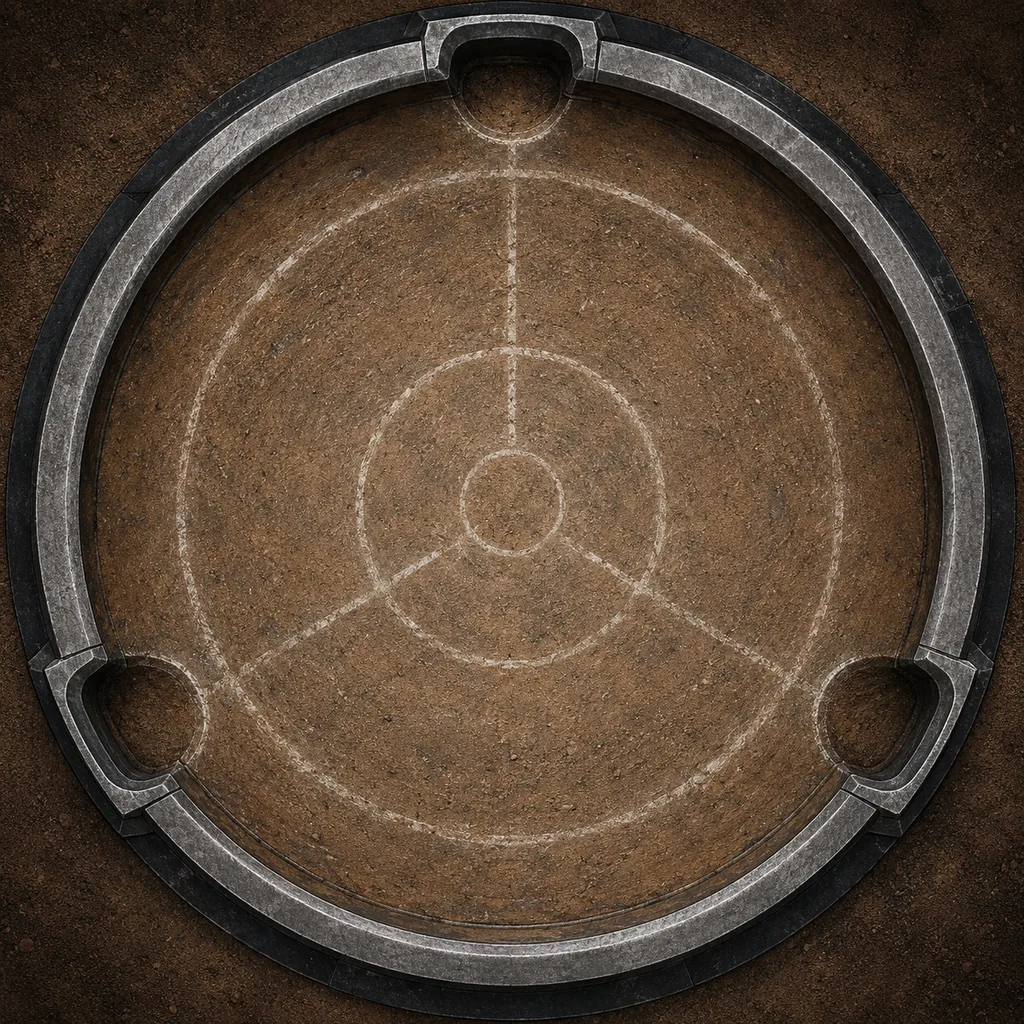
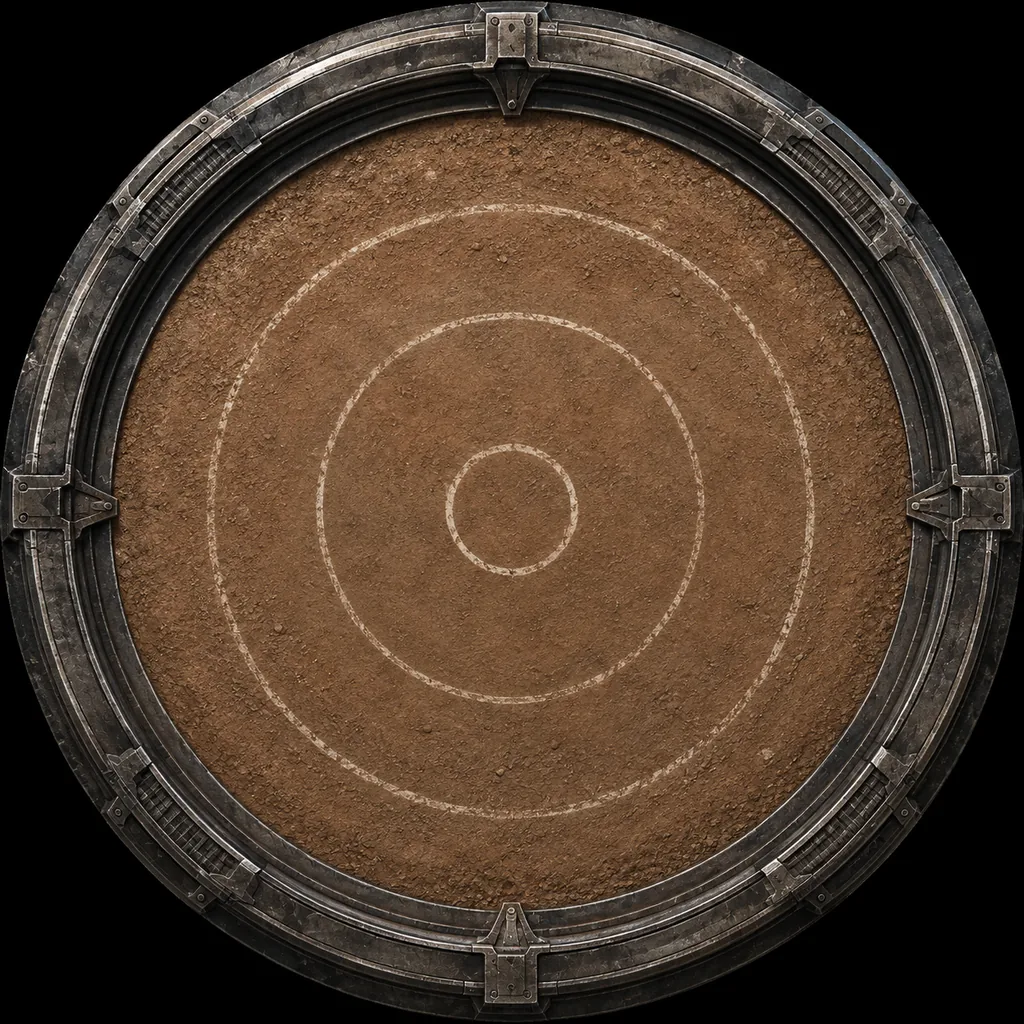
Ripcord: corrected Taya and Long Range floors, glyph and FX banks cut
Taya's old paint showed three pockets the sim does not have; the new
pocket-free dirt-and-rail dish replaces it (rim recalibrated 0.455 by
compositing candidate circles and looking, verified in the stadium shot).
Long Range's old take had four rail gates and no bands; the corrected
five-band take is wired after tools/detext_range.py polar-clones its
baked ruler text out and keys its magenta ground to alpha (rim 0.445).
The code's tujlub band rings skip when the paint is up, the uri law:
scoring is the pinned targets, so the paint's bands may be the visual.

Banked ready-to-wire from the same drop: 6 slot glyphs, 9 trigger glyphs
(one per trigger name), 8 physics FX ingredients (de-magenta'd: soft
glows keyed off a magenta ground keep an opaque cast the defringe band
cannot reach; min(R,B)-G excess subtracted instead). artsupport gains a
grid cut for sheets of disconnected pieces and retires the two floor
mappings that would regress the corrected files.

Claude-Session: https://claude.ai/code/session_01VaDwzVpmzUcjJm5HSHJmQ4

diff --git a/satellites/ripcord/index.html b/satellites/ripcord/index.html
@@ -4611,8 +4611,16 @@ function artHas(slot,id){ return !!(ART.has[slot]&&ART.has[slot][id]); }
 var ARENA_ART={
   pangkah:{f:'pangkah',rim:0.435,rot:Math.PI/2},
   uri:    {f:'uri',    rim:0.478,rot:0},
-  taya:   {f:'taya',   rim:0.450,rot:Math.PI/2},
-  tujlub: {f:'range',  rim:0.474,rot:0}
+  // Aug 31 corrected floor: the old paint showed three pockets Taya's sim
+  // does not have. The new dish is pocket-free (rot moot), rim calibrated
+  // by compositing candidate circles in PIL and LOOKING, then verified in
+  // the game's own stadium shot: 0.455 = the painted rail's centreline.
+  taya:   {f:'taya',   rim:0.455,rot:0},
+  // Aug 31 corrected floor: the old take had four rail gates and no bands;
+  // this one is five flush distance bands, no gates, baked "50m" ruler text
+  // polar-cloned out (the sim's marks draw over it). rim recalibrated for
+  // the new paint's greek-key rail band.
+  tujlub: {f:'range',  rim:0.445,rot:0}
 };
 var ARENA_IMG={};
 function arenaArt(m){
@@ -6740,8 +6748,11 @@ function drawStadium(cx,cy,r){
       ctx.beginPath();
       ctx.moveTo(cx+Math.cos(a)*r*0.06,cy+Math.sin(a)*r*0.06);
       ctx.lineTo(cx+Math.cos(a)*r*0.20,cy+Math.sin(a)*r*0.20);ctx.stroke();}
-  }else if(mode==='tujlub'){
-    // a range, so the ground is marked in distance bands rather than a lip
+  }else if(mode==='tujlub'&&!img){
+    // a range, so the ground is marked in distance bands rather than a lip.
+    // The painted floor carries five bands of its own; scoring is the pinned
+    // targets, not the bands, so the paint's bands may be the visual and
+    // doubling them with these (the uri post-ring law) reads as a mistake.
     ctx.strokeStyle='rgba(237,230,216,.13)';ctx.lineWidth=1.5;
     for(i=1;i<=5;i++){
       ctx.beginPath();ctx.arc(cx,cy,r*(0.16+i*0.155),0,Math.PI*2);ctx.stroke();

diff --git a/satellites/ripcord/src/play-shell.html b/satellites/ripcord/src/play-shell.html
@@ -1010,8 +1010,16 @@ function artHas(slot,id){ return !!(ART.has[slot]&&ART.has[slot][id]); }
 var ARENA_ART={
   pangkah:{f:'pangkah',rim:0.435,rot:Math.PI/2},
   uri:    {f:'uri',    rim:0.478,rot:0},
-  taya:   {f:'taya',   rim:0.450,rot:Math.PI/2},
-  tujlub: {f:'range',  rim:0.474,rot:0}
+  // Aug 31 corrected floor: the old paint showed three pockets Taya's sim
+  // does not have. The new dish is pocket-free (rot moot), rim calibrated
+  // by compositing candidate circles in PIL and LOOKING, then verified in
+  // the game's own stadium shot: 0.455 = the painted rail's centreline.
+  taya:   {f:'taya',   rim:0.455,rot:0},
+  // Aug 31 corrected floor: the old take had four rail gates and no bands;
+  // this one is five flush distance bands, no gates, baked "50m" ruler text
+  // polar-cloned out (the sim's marks draw over it). rim recalibrated for
+  // the new paint's greek-key rail band.
+  tujlub: {f:'range',  rim:0.445,rot:0}
 };
 var ARENA_IMG={};
 function arenaArt(m){
@@ -3139,8 +3147,11 @@ function drawStadium(cx,cy,r){
       ctx.beginPath();
       ctx.moveTo(cx+Math.cos(a)*r*0.06,cy+Math.sin(a)*r*0.06);
       ctx.lineTo(cx+Math.cos(a)*r*0.20,cy+Math.sin(a)*r*0.20);ctx.stroke();}
-  }else if(mode==='tujlub'){
-    // a range, so the ground is marked in distance bands rather than a lip
+  }else if(mode==='tujlub'&&!img){
+    // a range, so the ground is marked in distance bands rather than a lip.
+    // The painted floor carries five bands of its own; scoring is the pinned
+    // targets, not the bands, so the paint's bands may be the visual and
+    // doubling them with these (the uri post-ring law) reads as a mistake.
     ctx.strokeStyle='rgba(237,230,216,.13)';ctx.lineWidth=1.5;
     for(i=1;i<=5;i++){
       ctx.beginPath();ctx.arc(cx,cy,r*(0.16+i*0.155),0,Math.PI*2);ctx.stroke();

diff --git a/satellites/ripcord/tools/artsupport.py b/satellites/ripcord/tools/artsupport.py
@@ -35,8 +35,15 @@ SHEETS = {
     # the four gameplay floors
     'file_00000000131081f5': ('arena', 'pangkah'),
     'file_0000000045b081f5': ('arena', 'uri'),
-    'file_00000000e33c81f5': ('arena', 'taya'),      # richer of the two takes
-    'file_000000009e3c81f5': ('arena', 'range'),
+    # taya remapped Aug 31: the old take (e33c) painted three pockets the
+    # sim does not have; the corrected pocket-free dish rides the same
+    # dirt-and-rail family. rim recalibrated 0.450 -> 0.455 in play-shell.
+    'file_00000000ca7c81f5': ('arena', 'taya'),
+    # range REMOVED from the auto-cut Aug 31: the old take (9e3c) painted
+    # four rail gates and no bands. assets/arenas/range.webp is now HAND
+    # DERIVED (tools/detext_range.py polar-clones the baked ruler text out
+    # of the corrected five-band take, then keys its magenta ground to
+    # alpha) — re-adding a mapping here would silently regress it.
     # decal sheet B, exactly as specified
     'file_00000000a46c81f5': ('cut', [('decal','moth'),('decal','flame'),('decal','crane'),
                                       ('decal','chalk'),('decal','knot')]),
@@ -57,19 +64,30 @@ SHEETS = {
                                       ('emblem','tower'),('emblem','owl2'),('emblem','sunface')]),
     'file_00000000cd9c81f5': ('cut', [('emblem','moth2'),('emblem','flame2'),('emblem','crane2'),
                                       ('emblem','chalkstick'),('emblem','knot2')]),
-    # Decal Sheet A's missing four, from the Aug 31 "More assets" drop: the
-    # claw scratch IS stripe (a tiger-stripe rake), per the recovery handoff's
-    # own ledger ("stripe, koi, tiger, and circuit were later generated
-    # together on magenta"). Row-major: stripe, koi / tiger, circuit.
-    # 'quad' not 'cut': the claw is FOUR disconnected rake marks, so the
-    # connected-component finder shatters it (7 parts found for 4 assets).
-    # The sheet is a clean 2x2 grid, so each quadrant's own alpha bbox is
-    # the honest cut.
+    # The real UI sheets from the Aug 31 drop, ALL on clean magenta with no
+    # text: Sheet 11 slot glyphs (mechanical, gunmetal), Sheet 12 trigger
+    # glyphs (carved stone + gold, one per trigger name, row-major per the
+    # recovery handoff), Sheet 14 physics FX ingredients. Banked as singles
+    # ready to wire; nothing consumes them yet.
+    'file_00000000234081fd': ('grid', [(3,2),[('glyph','slot-core'),('glyph','slot-blade'),('glyph','slot-assist'),
+                                              ('glyph','slot-ratchet'),('glyph','slot-bit'),('glyph','slot-weight')]]),
+    'file_00000000d1c881f5': ('grid', [(3,3),[('glyph','trig-charged'),('glyph','trig-lowspin'),('glyph','trig-thirdhit'),
+                                              ('glyph','trig-onridge'),('glyph','trig-behind'),('glyph','trig-firstblood'),
+                                              ('glyph','trig-cornered'),('glyph','trig-mirror'),('glyph','trig-late')]]),
+    'file_000000002cec81f5': ('grid', [(4,2),[('fx','spinring'),('fx','wobble'),('fx','spark-low'),('fx','spark-med'),
+                                              ('fx','spark-high'),('fx','railstreak'),('fx','burst'),('fx','dust')]]),
+    # Decal Sheet A's missing four ("stripe, koi, tiger, and circuit were
+    # later generated together on magenta" per the recovery handoff; the claw
+    # scratch IS stripe, a tiger-stripe rake). 'quad' not 'cut': the claw is
+    # FOUR disconnected rake marks, so the component finder shatters it
+    # (7 parts found for 4 assets); a 2x2 grid cuts honestly by quadrant.
     'file_00000000fd5081f5': ('quad', [('decal','stripe'),('decal','koi'),
                                        ('decal','tiger'),('decal','circuit')]),
 }
-SIZES = {'decal': 256, 'emblem': 320}
-DEST = {'decal': DECALS_D, 'emblem': EMBLEMS_D}
+GLYPHS_D = os.path.join(ROOT, 'assets', 'glyphs')
+FX_D = os.path.join(ROOT, 'assets', 'fx')
+SIZES = {'decal': 256, 'emblem': 320, 'glyph': 256, 'fx': 320}
+DEST = {'decal': DECALS_D, 'emblem': EMBLEMS_D, 'glyph': GLYPHS_D, 'fx': FX_D}
 
 def square(im, side):
     im = im.copy()
@@ -79,7 +97,7 @@ def square(im, side):
     return c
 
 def main(indir):
-    for d in (DECALS_D, EMBLEMS_D, ARENAS_D):
+    for d in (DECALS_D, EMBLEMS_D, ARENAS_D, GLYPHS_D, FX_D):
         os.makedirs(d, exist_ok=True)
     files = {f: os.path.join(indir, f) for f in os.listdir(indir) if f.endswith('.png')}
     done, failed = 0, False
@@ -96,20 +114,28 @@ def main(indir):
             continue
         keyed, _ = artsheet.key_and_defringe(Image.open(src))
         import numpy as np
-        if kind == 'quad':
-            # 2x2 grid: each quadrant's alpha bbox, no component finding.
+        if kind == 'quad' or kind == 'grid':
+            # Grid cut: each cell's own alpha bbox, no component finding — for
+            # sheets whose assets are made of DISCONNECTED pieces (a claw's
+            # rake marks, a broken chain, scattered debris) that shatter the
+            # component finder. 'quad' is the 2x2 case; 'grid' carries its own
+            # (cols, rows) ahead of the names.
+            if kind == 'grid':
+                cols, rows = spec[0]; spec = spec[1]
+            else:
+                cols, rows = 2, 2
             a = np.asarray(keyed)[:, :, 3]
-            H2, W2 = a.shape[0] // 2, a.shape[1] // 2
+            CH, CW = a.shape[0] // rows, a.shape[1] // cols
             boxes = []
-            for qy in (0, 1):
-                for qx in (0, 1):
-                    cell = a[qy*H2:(qy+1)*H2, qx*W2:(qx+1)*W2]
+            for qy in range(rows):
+                for qx in range(cols):
+                    cell = a[qy*CH:(qy+1)*CH, qx*CW:(qx+1)*CW]
                     ys, xs = np.nonzero(cell > 8)
                     if not len(ys):
-                        print('ERROR %s: empty quadrant %d,%d' % (prefix, qx, qy))
+                        print('ERROR %s: empty cell %d,%d' % (prefix, qx, qy))
                         failed = True; boxes = None; break
-                    boxes.append((qx*W2+xs.min(), qy*H2+ys.min(),
-                                  qx*W2+xs.max()+1, qy*H2+ys.max()+1, 0, 0))
+                    boxes.append((qx*CW+xs.min(), qy*CH+ys.min(),
+                                  qx*CW+xs.max()+1, qy*CH+ys.max()+1, 0, 0))
                 if boxes is None: break
             if boxes is None: continue
         else:

diff --git a/satellites/ripcord/tools/detext_range.py b/satellites/ripcord/tools/detext_range.py
@@ -1,0 +1,72 @@
+#!/usr/bin/env python3
+"""detext_range - derives assets/arenas/range.webp from the corrected
+Long Range floor sheet (file_00000000396081f5..., the Aug 31 drop).
+
+That take is the right geometry (five flush bands, no gates) but bakes
+"10m..50m" ruler text down the vertical axis, which the spec forbids.
+The bands are rotationally uniform stone, so every text/tick pixel is
+replaced by the pixel at the SAME RADIUS at a rotated angle, feathered.
+
+    python3 tools/detext_range.py /path/to/file_00000000396081f5....png
+
+Lessons carved into the pass list, learned by LOOKING between passes:
+- the two "10m" labels sit OFF the vertical axis (diagonal from the
+  boss), so an axis strip alone leaves them;
+- a donor angle must land on stone that is ALREADY CLEAN: the first
+  patch pass sampled +40 deg, which was the protected near-boss tick,
+  and cloned the contamination it was meant to remove.
+"""
+import os, sys
+import numpy as np
+from PIL import Image
+
+HERE = os.path.dirname(os.path.abspath(__file__))
+sys.path.insert(0, HERE)
+import artsheet
+
+OUT = os.path.join(os.path.dirname(HERE), 'assets', 'arenas', 'range.webp')
+
+# (mask builder args) -> polar-clone passes, in order. Each pass: strips
+# near the vertical axis and/or discs, donor at +-rot from the target's
+# angle, mirrored across the horizontal so both halves sample outward.
+PASSES = [
+    dict(strips=[(105, 115, 505, 18)], discs=[], rot=0.6981),
+    dict(strips=[(105, 490, 560, 18)], discs=[(722, 532, 52), (718, 728, 52)], rot=0.6981),
+    dict(strips=[(40, 76, 180, 10)], discs=[(697, 545, 42), (692, 704, 36)], rot=0.6981),
+    dict(strips=[(46, 76, 195, 10)], discs=[(696, 551, 50), (690, 696, 50)], rot=1.2217),
+]
+
+def clone_pass(a, cx, cy, strips, discs, rot):
+    H, W = a.shape[:2]
+    yy, xx = np.mgrid[0:H, 0:W]
+    dx, dy = xx - cx, yy - cy
+    r = np.hypot(dx, dy); ang = np.arctan2(dy, dx)
+    w = np.zeros((H, W), np.float32)
+    for half, r0, r1, feather in strips:
+        m = (np.abs(dx) < half) & (r >= r0) & (r < r1)
+        w = np.maximum(w, np.where(m, np.clip((half - np.abs(dx)) / feather, 0, 1), 0))
+    for px, py, rad in discs:
+        d = np.hypot(xx - px, yy - py)
+        w = np.maximum(w, np.clip((rad - d) / 12.0, 0, 1))
+    ang2 = ang + np.where(dy > 0, rot, -rot) if rot < 1.0 else \
+           ang + np.where(dy > 0, -rot, rot)
+    sx = np.clip(cx + r * np.cos(ang2), 0, W - 1).astype(np.int32)
+    sy = np.clip(cy + r * np.sin(ang2), 0, H - 1).astype(np.int32)
+    return a * (1 - w[..., None]) + a[sy, sx] * w[..., None]
+
+def main(src):
+    im = Image.open(src).convert('RGB')
+    a = np.asarray(im).astype(np.float32)
+    cx, cy = a.shape[1] / 2, a.shape[0] / 2
+    for p in PASSES:
+        a = clone_pass(a, cx, cy, p['strips'], p['discs'], p['rot'])
+    cleaned = Image.fromarray(a.astype(np.uint8))
+    keyed, _ = artsheet.key_and_defringe(cleaned)
+    keyed.thumbnail((1024, 1024), Image.LANCZOS)
+    keyed.save(OUT, 'WEBP', quality=82, method=6)
+    print('wrote', OUT, keyed.size, keyed.mode)
+
+if __name__ == '__main__':
+    if len(sys.argv) != 2:
+        print(__doc__); sys.exit(1)
+    main(sys.argv[1])
